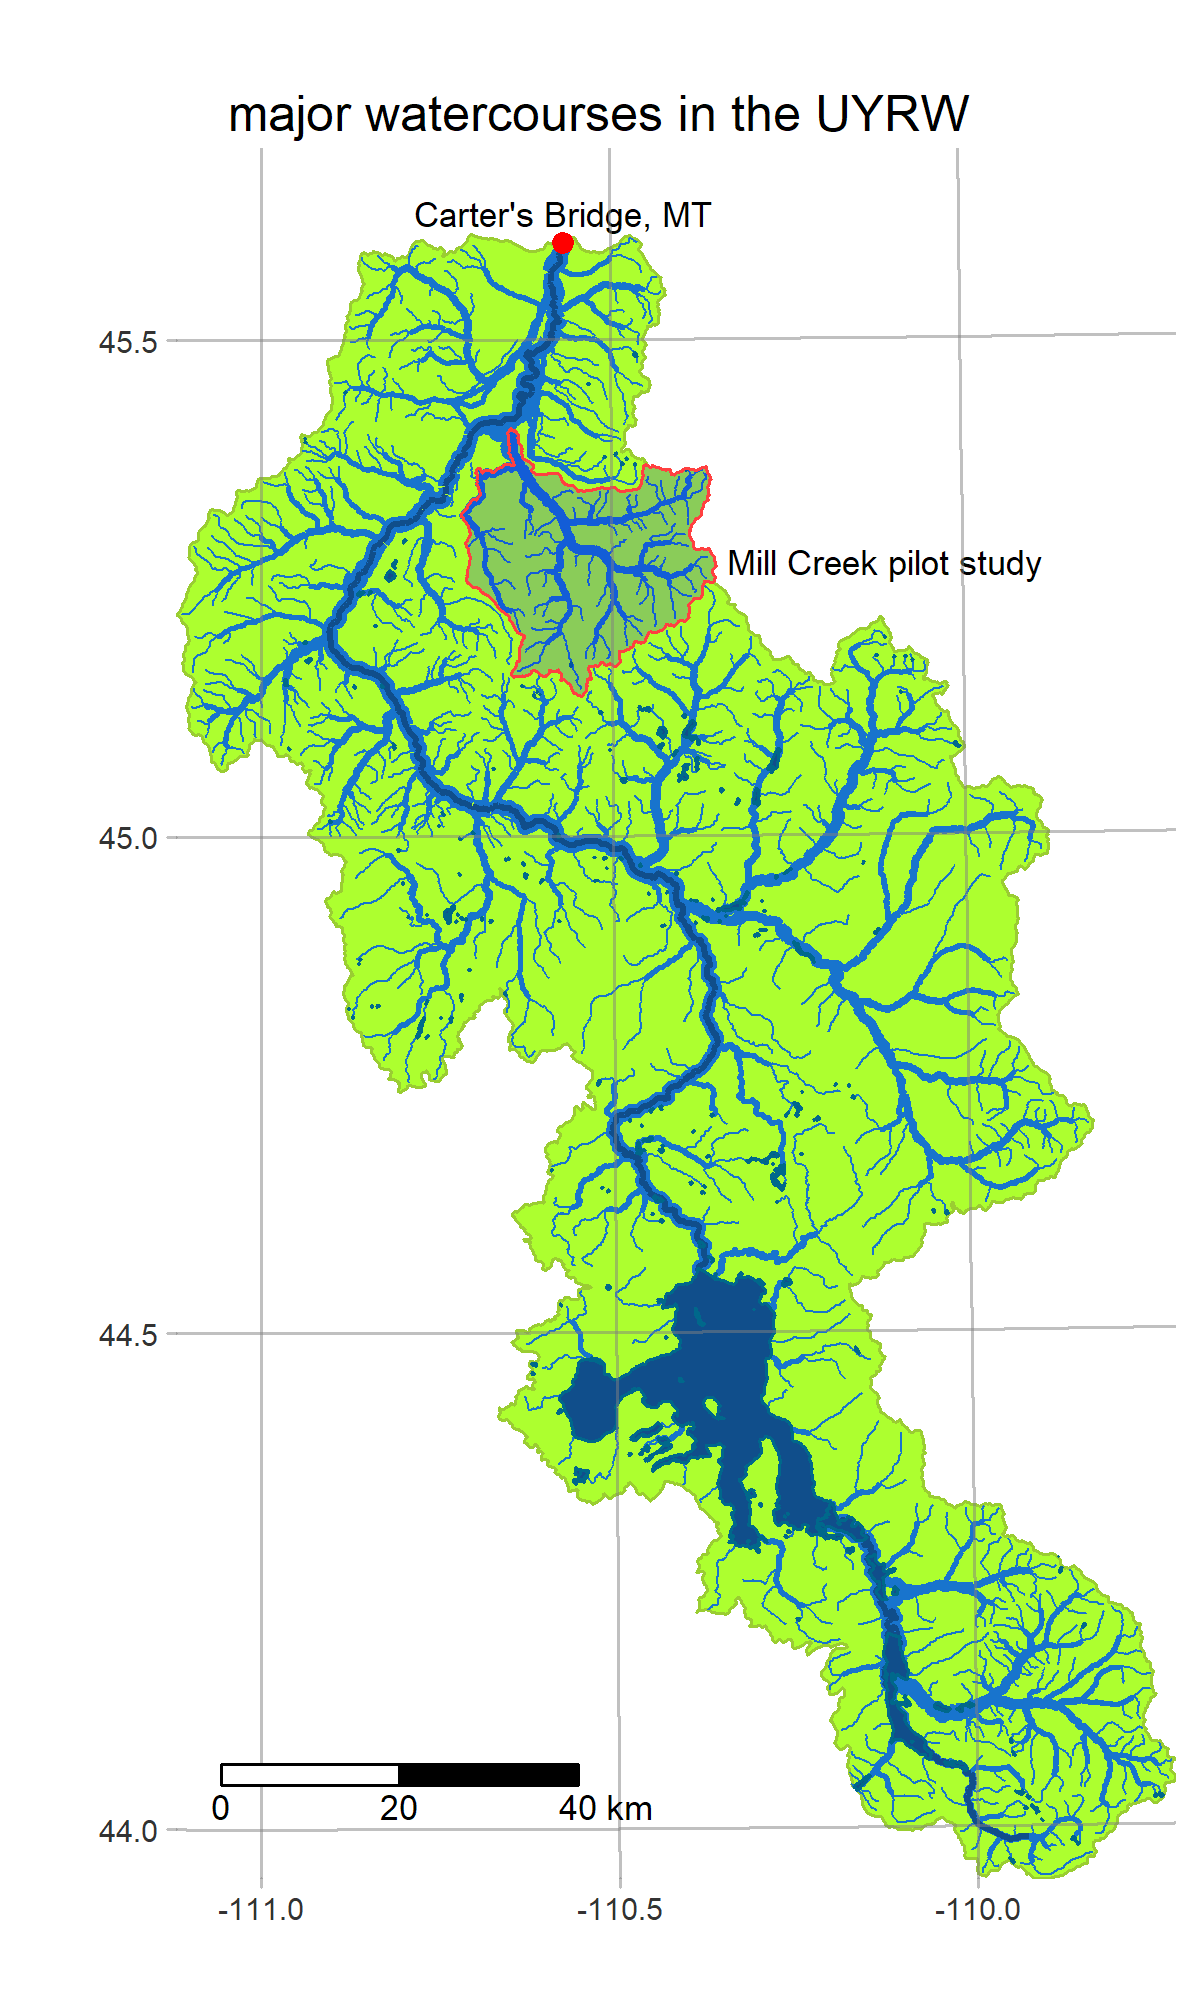
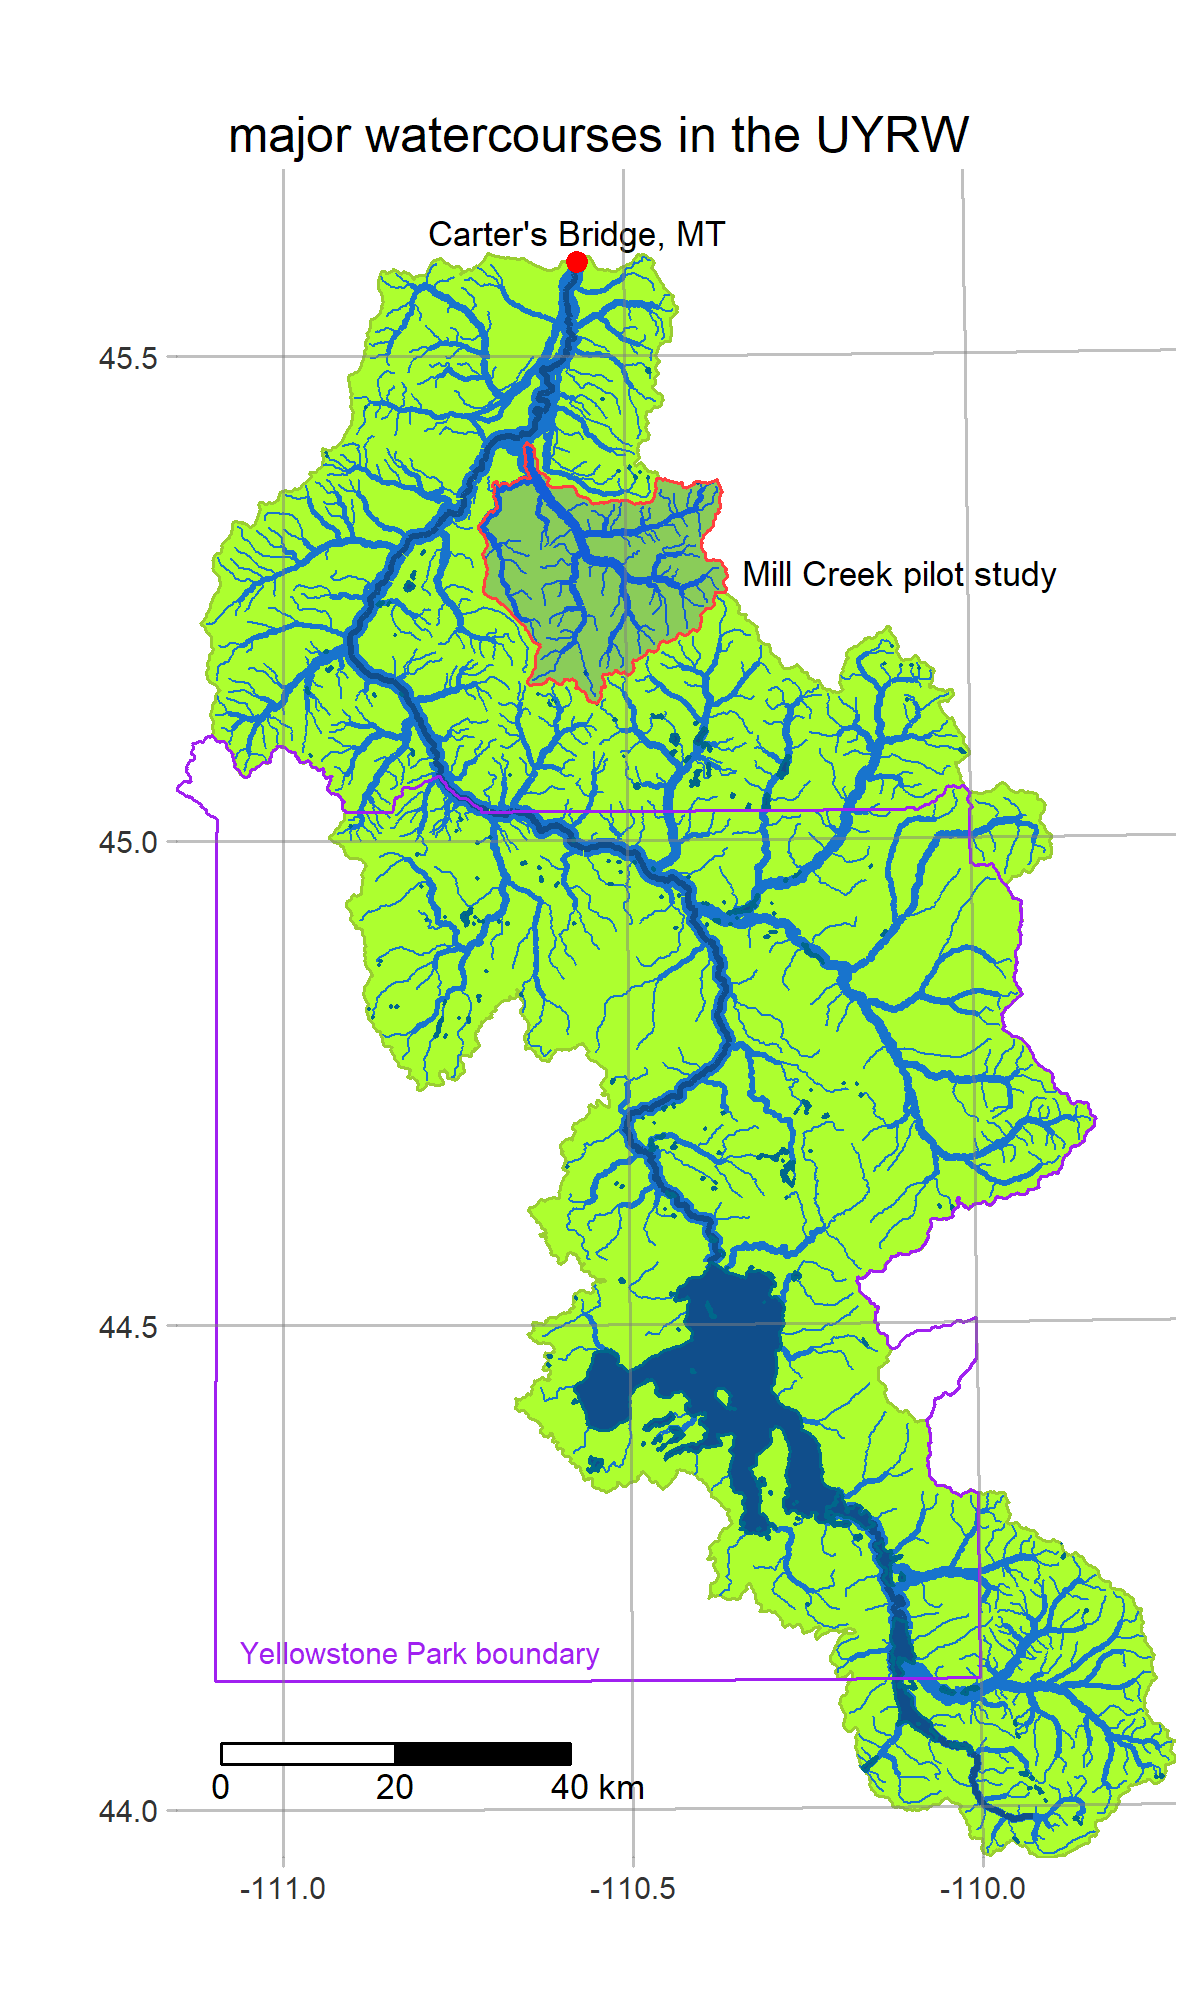
added Yellowstone Park boundary to main figure. These geometries are now fetched in get_basins

diff --git a/markdown/get_basins.md b/markdown/get_basins.md
@@ -1,7 +1,7 @@
 get\_basins.R
 ================
 Dean Koch
-2021-03-05
+2021-03-25
 
 **Mitacs UYRW project**
 
@@ -31,6 +31,7 @@ plots giving an overview of the watershed.
 # we may want to also fetch the current watershed boundary (HUC) map, either from: 
 # https://developers.google.com/earth-engine/datasets/catalog/USGS_WBD_2017_HUC10
 # or http://prd-tnm.s3-website-us-west-2.amazonaws.com/?prefix=StagedProducts/Hydrography/WBD/National/GDB/
+#
 ```
 
 ## libraries
@@ -95,6 +96,8 @@ print(basins.meta[, c('file', 'type')])
 ```
 
     ##                                                   file          type
+    ## ynp_boundary            data/prepared/ynp_boundary.rds   R sf object
+    ## nps_boundary                  data/source/nps_boundary     directory
     ## poi                                  data/uyrw_poi.rds R list object
     ## nhd                          data/source/uyrw_nhd.gpkg    geopackage
     ## crs                                  data/uyrw_crs.rds R list object
@@ -329,6 +332,53 @@ if(!file.exists(here(basins.meta['millcreek', 'file'])))
 }
 ```
 
+## national parks boundaries
+
+It will be helpful to have a Yellowstone Park boundary for plotting.
+This is available at the [NPS Data
+Store](https://irma.nps.gov/DataStore/Reference/Profile/2224545?lnv=True).
+We access this from within R using the helper function (`my_get_irma`),
+which handles API requests to irmaservices.nps.gov
+
+``` r
+# define the folder to store the downloaded files and the projected Yellowstone boundary file
+
+dest.nps = here(basins.meta['nps_boundary', 'file'])
+dest.ynp = here(basins.meta['ynp_boundary', 'file'])
+
+# download as required
+if( !dir.exists(dest.nps) )
+{
+  # search for park boundaries shapefiles
+  irma.search = my_get_irma('national park administrative boundaries') 
+  
+  # narrow down to the correct entry and download/extract
+  nps.title = 'Administrative Boundaries of National Park System Units 12/31/2020'
+  irma.bound = irma.search %>% filter( grepl(nps.title, title) ) 
+  irma.result = my_get_irma(irma.bound, dest=dirname(dest.nps))
+  
+  # delete the zip archive (leaving the extracted files)
+  unlink(irma.result$path)
+}
+
+# transform as required
+if( !file.exists(dest.ynp) )
+{
+  # load the boundaries and extract YNP in correct projection
+  ynp.sf = st_read(dest.nps) %>% 
+    filter(grepl('Yellowstone', UNIT_NAME)) %>%
+    st_transform(crs=crs.list$epsg)
+  
+  # save to disk
+  saveRDS(ynp.sf, dest.ynp)
+  
+} else {
+  
+  # reload from disk
+  ynp.sf = readRDS(dest.ynp)
+}
+```
+
 ## visualization
 
 We make a few plots using the `tmap` package to show some of the
@@ -376,8 +426,18 @@ do not represent physical width of the stream).
 ``` r
 if(!file.exists(here(basins.meta['img_flowline', 'file'])))
 {
+  # make a dummy polygon enclosing both the park and watershed boundaries
+  outer.sf = st_union(st_geometry(ynp.sf), st_geometry(uyrw.poly))
+
+  # pick an anchor point for the YNP text label near intersection with Idaho state line
+  line.idaho = my_maps('state', st_crs(ynp.sf)) %>% filter(name == 'idaho') %>% st_geometry %>% st_cast('LINESTRING')
+  line.ynp = ynp.sf %>% st_geometry %>% st_cast('POLYGON') %>% st_cast('LINESTRING')
+  ynp.pt = st_cast(st_intersection(line.ynp, line.idaho), 'POINT')
+  ynp.pt = st_sf(data.frame(name='Yellowstone Park boundary'), geometry=ynp.pt[2,]) 
+  
   # make the plot grob
   tmap.watercourses = 
+    tm_shape(outer.sf) + tm_borders(alpha=0) +
     tm_shape(uyrw.poly) + 
       tm_polygons(col='greenyellow', border.col='yellowgreen') +
     tm_shape(uyrw.flowline) +
@@ -393,8 +453,12 @@ if(!file.exists(here(basins.meta['img_flowline', 'file'])))
     tm_text('request', size=tmap.pars$label.txt.size, ymod=0.5) +
       tm_shape(st_sf(st_centroid(millcreek.list$boundary), data.frame(request='Mill Creek pilot study'))) +   
       tm_text('request', size=tmap.pars$label.txt.size, xmod=5) +
+    tm_shape(ynp.sf) + 
+      tm_borders(col='purple') +
+    tm_shape(ynp.pt) + 
+      tm_text('name', col='purple', size=0.6, just='left', ymod=0.5) +
     tmap.pars$layout +
-    tm_layout(main.title='major watercourses in the UYRW') 
+      tm_layout(main.title='major watercourses in the UYRW') 
   
   # render the plot
   tmap_save(tm=tmap.watercourses, 
